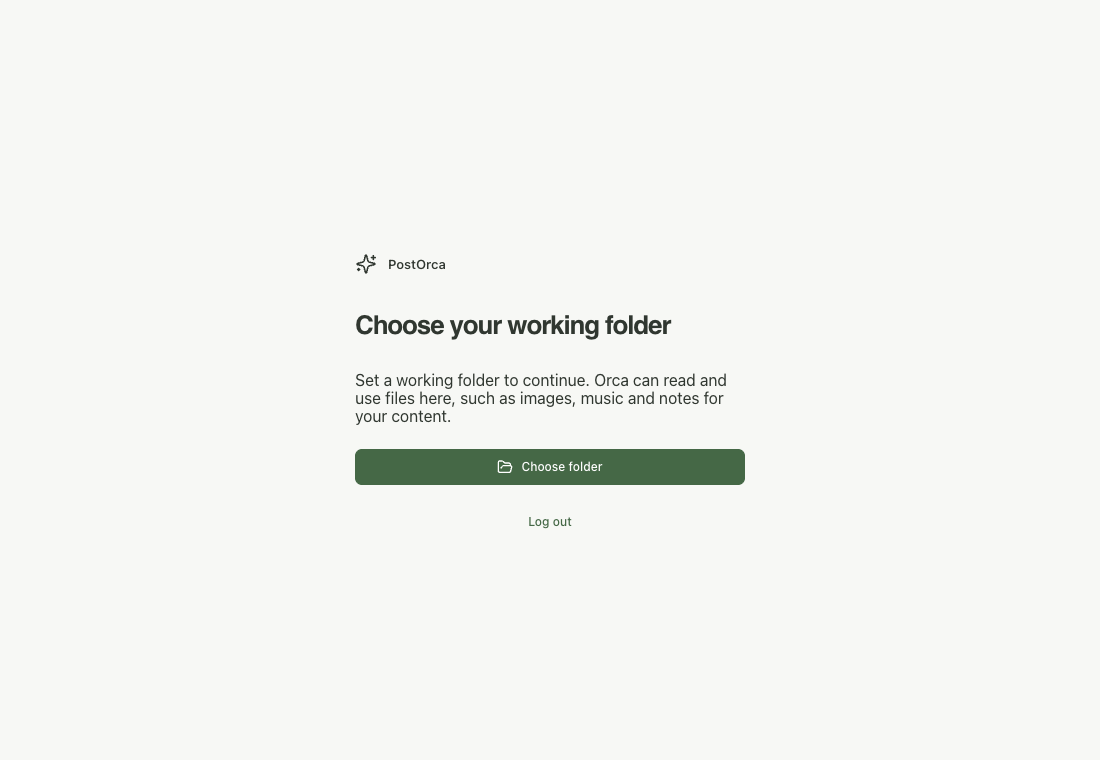
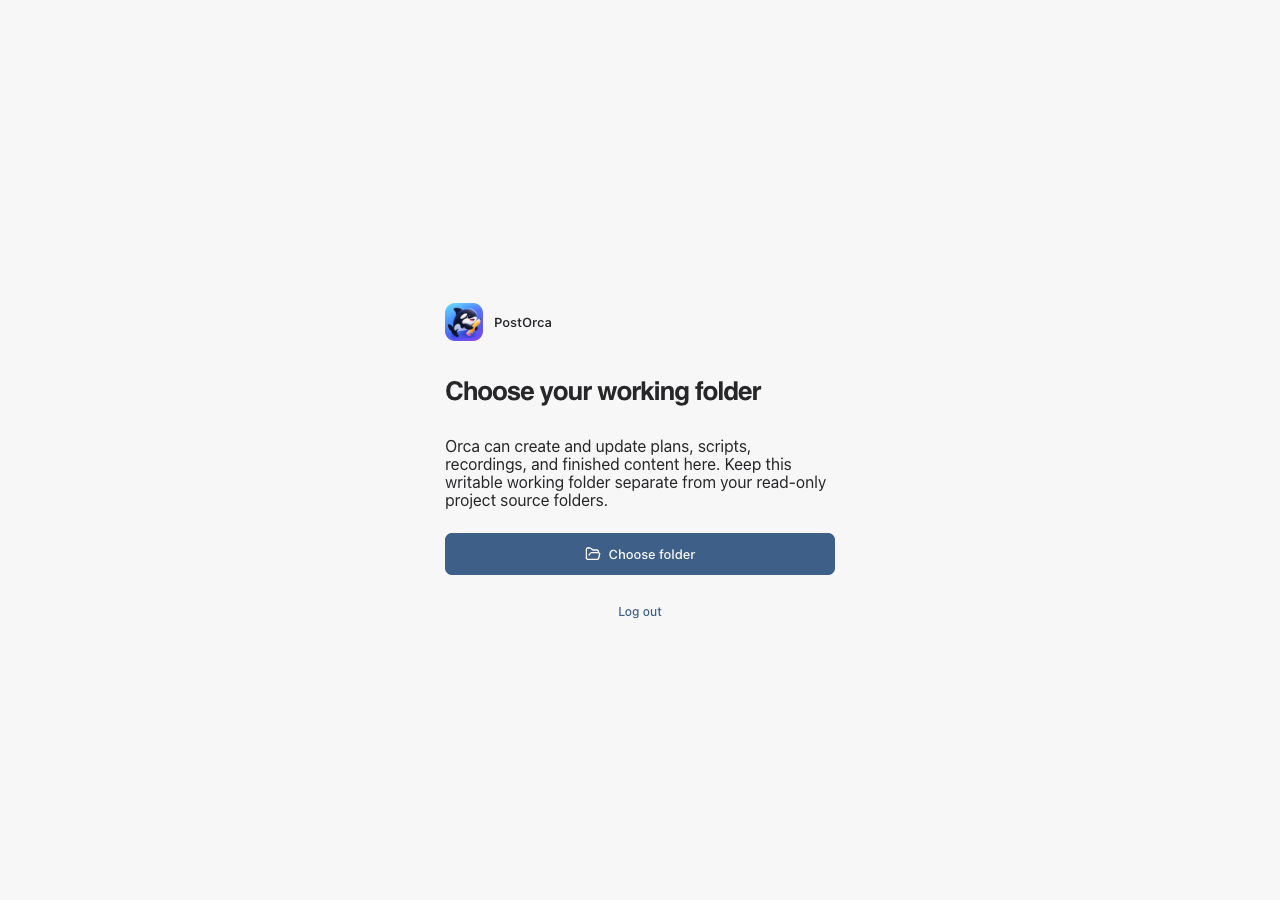
Clarify working folder and enforce read-only source boundaries

Changed region(s): [[0.3091, 0.4842, 0.68, 0.6961], [0.3091, 0.3934, 0.6182, 0.4539], [0.3091, 0.3329, 0.4327, 0.3934]]

diff --git a/apps/api/tests/projects.test.ts b/apps/api/tests/projects.test.ts
@@ -400,7 +400,7 @@ test("capture tools check their target and reach the desktop without project fol
   }
 });
 
-test("file transfer tools validate their arguments and never send project folders", async () => {
+test("file transfer tools validate arguments and protect registered sources during downloads", async () => {
   const founder = await onboarded([
     { name: "Founder on X", url: "https://x.com/transfer-founder", kind: "x" },
   ]);
@@ -454,6 +454,7 @@ test("file transfer tools validate their arguments and never send project folder
             url: "https://example.com/track.mp3",
             filename: "track.mp3",
             source_url: "https://example.com/music",
+            read_only_roots: ["/Users/founder/app"],
           },
           240_000,
         ],
@@ -912,4 +913,37 @@ test("account deletion still cascades with a legacy chat and multiple project ch
   await fixture.db.query("DELETE FROM users WHERE id=$1", [founder.id]);
   assert.equal((await fixture.db.query("SELECT count(*)::int AS n FROM tasks WHERE user_id=$1", [founder.id])).rows[0].n, 0);
   assert.equal((await fixture.db.query("SELECT count(*)::int AS n FROM brand_projects WHERE user_id=$1", [founder.id])).rows[0].n, 0);
+});
+
+test("content writers receive all owned read-only roots, not just the active project's folders", async () => {
+  const { callDesktop } = await import("../src/desktop/calls.js");
+  const founder = await account();
+  const other = await account();
+  const add = async (owner: typeof founder, name: string, folders: string[]) =>
+    (await request("/brand-profile/projects", "POST", { name, folders }, owner.token)).data.project;
+  const project = await add(founder, "Active", ["/source/active", "/source/docs"]);
+  await add(founder, "Other", ["/source/other"]);
+  await add(other, "Foreign", ["/source/foreign"]);
+  const task = await createTask(fixture.db, founder.id, "work", "Plan", "content", project.id);
+  const turn = await createTurn(fixture.db, founder.id, task.id, "Plan content");
+  const context = { db: fixture.db, userId: founder.id, taskId: task.id, turnId: turn.id };
+  const deviceToken = (await request("/desktop/device-token", "POST", { deviceId: randomUUID() }, founder.token)).data.token;
+  const ws = new WebSocket(`${base.replace(/^http/, "ws")}/desktop/socket?token=${encodeURIComponent(deviceToken)}`);
+  const calls: any[] = [];
+  ws.on("message", async (raw) => {
+    const { data: sent } = JSON.parse(raw.toString()); calls.push(sent);
+    await request("/desktop/tool-result", "POST", { executionId: sent.executionId, ok: true, result: { folder: "Content/Plan", path: "/output/Content/Plan/plan.md" } }, deviceToken);
+  });
+  await once(ws, "open");
+  try {
+    await executeTool(fixture.db, context, "save_content_file", { name: "plan.md", text: "# Plan" });
+    for (const name of ["screen_record_stop", "video_export"])
+      await callDesktop(context, name, { timeoutMs: 1000 }, { content_folder: "Content/Plan" });
+    for (const call of calls)
+      assert.deepEqual(call.arguments.read_only_roots, ["/source/active", "/source/docs", "/source/other"]);
+    await assert.rejects(executeTool(fixture.db, context, "save_content_file", { name: "plan.md", text: "x", read_only_roots: [] }), /Unrecognized key/);
+    const profile = await executeTool(fixture.db, context, "read_brand_profile", {}) as any;
+    assert.deepEqual(profile.folder_access, { source_folders: "read_only", working_folder: "read_write" });
+    assert.equal(calls.length, 3);
+  } finally { ws.close(); }
 });

diff --git a/apps/desktop/src/components/WorkingFolderSetup.tsx b/apps/desktop/src/components/WorkingFolderSetup.tsx
@@ -2,6 +2,7 @@ import { useEffect, useState, type ReactNode } from "react";
 import { FolderOpen, LoaderCircle } from "lucide-react";
 import { Button } from "./ui";
 import BrandMark from "./BrandMark";
+import { chooseWorkingFolder, folderError } from "../lib/folders";
 import "./AuthScreen.css";
 import "./forms.css";
 
@@ -32,7 +33,7 @@ export default function WorkingFolderSetup({
       () => {
         if (!cancelled) {
           setError(
-            "Unable to check your content output folder. Choose a folder to continue.",
+            "Unable to check your working folder. Choose a folder to continue.",
           );
           setChecking(false);
         }
@@ -51,7 +52,7 @@ export default function WorkingFolderSetup({
         <div
           className="auth-loading"
           role="status"
-          aria-label="Checking content output folder"
+          aria-label="Checking working folder"
         >
           <LoaderCircle className="loading-icon" size={24} />
         </div>
@@ -62,11 +63,10 @@ export default function WorkingFolderSetup({
               <BrandMark />
               <span>PostOrca</span>
             </div>
-            <h1>Choose your content output folder</h1>
+            <h1>Choose your working folder</h1>
             <div className="form-stack">
               <p>
-                Choose where Orca saves plans, scripts, recordings, and finished
-                content. You can add source folders for each project separately.
+                Orca can create and update plans, scripts, recordings, and finished content here. Keep this writable working folder separate from your read-only project source folders.
               </p>
               {error && (
                 <p className="auth-error" role="alert">
@@ -82,12 +82,10 @@ export default function WorkingFolderSetup({
                   setBusy(true);
                   setError("");
                   try {
-                    const folder = await folders.choose();
+                    const folder = await chooseWorkingFolder();
                     if (folder) setReady(true);
-                  } catch {
-                    setError(
-                      "Unable to save your content output folder. Please try again.",
-                    );
+                  } catch (error) {
+                    setError(folderError(error, "Unable to save your working folder. Please try again."));
                   } finally {
                     setBusy(false);
                   }

diff --git a/apps/desktop/src/components/SettingsModal.tsx b/apps/desktop/src/components/SettingsModal.tsx
@@ -1,3 +1,5 @@
+import { useEffect, useState } from "react";
+import { chooseWorkingFolder, folderError } from "../lib/folders";
 import BillingUsage from "./BillingUsage";
 import {
   CircleHelp,
@@ -73,6 +75,7 @@ export default function SettingsModal({
 
           {tab === "General" && (
             <>
+              <WorkingFolderSetting />
               <span className="field-section-label">Appearance</span>
               <div className="settings-group">
                 <div className="setting-row">
@@ -165,4 +168,40 @@ export default function SettingsModal({
       </div>
     </Modal>
   );
+}
+
+
+function WorkingFolderSetting() {
+  const folders = window.postorca?.workingFolder;
+  const [folder, setFolder] = useState<string | null>(null);
+  const [loading, setLoading] = useState(true);
+  const [busy, setBusy] = useState(false);
+  const [error, setError] = useState("");
+  useEffect(() => {
+    if (!folders) return;
+    let active = true;
+    void folders.get().then((value) => { if (active) setFolder(value); })
+      .catch((failure) => { if (active) setError(folderError(failure, "Unable to read the working folder.")); })
+      .finally(() => { if (active) setLoading(false); });
+    return () => { active = false; };
+  }, [folders]);
+  if (!folders) return null;
+  return <>
+    <span className="field-section-label">Files</span>
+    <div className="settings-group">
+      <div className="setting-row">
+        <div><strong>Working folder <span className="pill">Read &amp; write</span></strong>
+          <p style={{ overflowWrap: "anywhere" }}>{loading ? "Loading…" : folder || "Choose a working folder."}</p>
+          <p>Generated content is saved here. Keep it separate from read-only project source folders.</p>
+        </div>
+        <Button disabled={busy} onClick={async () => {
+          setBusy(true); setError("");
+          try { const selected = await chooseWorkingFolder(); if (selected) setFolder(selected); }
+          catch (failure) { setError(folderError(failure, "Unable to change the working folder.")); }
+          finally { setBusy(false); }
+        }}>{busy ? "Choosing…" : "Change folder"}</Button>
+      </div>
+      {error && <p className="auth-error" role="alert">{error}</p>}
+    </div>
+  </>;
 }

diff --git a/apps/desktop/src/components/ProjectDialog.tsx b/apps/desktop/src/components/ProjectDialog.tsx
@@ -1,6 +1,7 @@
 import { useState, type FormEvent } from "react";
 import { FolderOpen, Plus, Trash2 } from "lucide-react";
 import type { BrandProject } from "../lib/brand";
+import { folderError } from "../lib/folders";
 import { api } from "../lib/api";
 import { Button, Modal } from "./ui";
 import "./forms.css";
@@ -32,7 +33,7 @@ export default function ProjectDialog({
       await work();
     } catch (failure) {
       setError(
-        failure instanceof Error ? failure.message : "Unable to save project.",
+        folderError(failure, "Unable to save project."),
       );
     } finally {
       setBusy(false);
@@ -99,12 +100,11 @@ export default function ProjectDialog({
           />
         </label>
         <div className="project-folder-heading">
-          <strong>Source folders</strong>
+          <strong>Source folders <span className="pill">Read-only</span></strong>
           <span className="muted">{folders.length}/20</span>
         </div>
         <p className="muted">
-          Add repositories, designs, or notes for this project. Orca can read
-          files in these folders.
+          Orca’s file tools can read these repositories, designs, or notes, but cannot write to them. Generated content goes in your separate working folder.
         </p>
         <ul className="project-folder-list">
           {folders.map((folder) => (

diff --git a/apps/api/src/desktop/calls.ts b/apps/api/src/desktop/calls.ts
@@ -1,3 +1,5 @@
+import type { Database } from "../db.js";
+import { listProjects } from "../repositories/projects.js";
 import { randomUUID } from "node:crypto";
 import { HttpError } from "../handlers/errors.js";
 import { desktopConnections } from "./connections.js";
@@ -24,6 +26,7 @@ const pending = new Map<string, Pending>();
 export async function callDesktop(
   context: {
     userId: string;
+    db?: Database;
     taskId?: string;
     turnId?: string;
     signal?: AbortSignal;
@@ -41,6 +44,10 @@ export async function callDesktop(
   if (!deviceId) {
     if (tool.offline) return tool.offline();
     throw new HttpError(503, "The desktop app is not connected.");
+  }
+  if (context.db && args && typeof args === "object" &&
+      (["write_content_file", "download_file", "browser_fetch_file"].includes(name) || (["screen_record_stop", "video_export"].includes(name) && "content_folder" in args))) {
+    args = { ...args, read_only_roots: (await listProjects(context.db, context.userId)).flatMap((project) => project.folders) };
   }
   const executionId = randomUUID();
   const outcome = await new Promise<Outcome>((resolve) => {

diff --git a/apps/desktop/src/vite-env.d.ts b/apps/desktop/src/vite-env.d.ts
@@ -12,14 +12,14 @@ interface Window {
       refresh(): Promise<string | null>;
       clear(): Promise<void>;
     };
-    /** Picks a folder for a Brand Profile project; doesn't save it. */
+    /** Picks a read-only source folder for a project; doesn't save it. */
     projectFolder: {
       choose(): Promise<string | null>;
     };
     /** The folder Orca's file tools use; choose() opens the picker and saves it. */
     workingFolder: {
       get(): Promise<string | null>;
-      choose(): Promise<string | null>;
+      choose(readOnlySources?: string[]): Promise<string | null>;
     };
     /** Subscribes to notifications the OS wouldn't show; returns unsubscribe. */
     onNotification(

diff --git a/apps/desktop/src/lib/folders.ts b/apps/desktop/src/lib/folders.ts
@@ -1,0 +1,12 @@
+import { api } from "./api";
+import type { Brand } from "./brand";
+
+/** The server remains the source of truth for registered read-only folders. */
+export async function chooseWorkingFolder() {
+  const profile = await api<Brand>("/brand-profile");
+  const sources = profile.projects.flatMap((project) => project.folders ?? [project.path]);
+  return window.postorca?.workingFolder.choose(sources) ?? null;
+}
+export function folderError(error: unknown, fallback: string) {
+  return error instanceof Error ? error.message.replace(/^Error invoking remote method '[^']+': (?:Error: )?/, "") : fallback;
+}

diff --git a/apps/api/src/repositories/brand.ts b/apps/api/src/repositories/brand.ts
@@ -31,6 +31,7 @@ export async function getAgentProfile(
 ) {
   const profile = await getProfile(db, userId);
   delete profile.company;
+  profile.folder_access = { source_folders: "read_only", working_folder: "read_write" };
   if (projectId) {
     profile.projects = profile.projects.filter(
       (project: { id: string }) => project.id === projectId,

diff --git a/README.md b/README.md
@@ -23,7 +23,8 @@ PostOrca is a desktop app with an AI agent, Orca, that turns what you build into
 - **Routines**: work Orca does for you every day on its own, like checking what changed in your projects or how your posts did.
 - **Projects**: products you create content for, each with one or more local source folders and its own content tasks. Click a project in the sidebar to open its own Orca conversation. The project name appears in the chat header; its settings gear opens a dialog for folders, name, description, and removal. Work delegated from the conversation automatically stays with that project.
 - **Brand Profile**: your shared audience, voice, content interests and social links. Product context comes from Projects.
-- **Content output folder**: where Orca saves generated plans, scripts, recordings and exports; separate from project source folders.
+- **Working folder**: the writable folder Orca uses for generated plans, scripts, recordings and exports. Choose it during setup and change it in Settings → General.
+- **Source folders**: read-only inputs for Orca's file tools. They must be separate from the working folder, including parent/child overlaps and symlink aliases. Sources are registered in PostgreSQL (`brand_projects.folders`); the working folder remains local in the app profile's `settings.json` (`workingFolder`). Roles are derived from those stores, not per-folder database flags. The agent sees source paths and their role in its project context, and discovers the local working path and role through `desktop_status`. File-tool write checks enforce this separation; general computer automation is not an OS-level filesystem sandbox.
 - **Tools**: browser control through your own browser, computer use on macOS and Windows, media creation (images, voice, music, video), and Gmail/Google Drive connectors.
 
 ## Project structure

diff --git a/apps/api/src/agent/prompts/system.md b/apps/api/src/agent/prompts/system.md
@@ -7,3 +7,6 @@ When the work requires desktop tools, check desktop_status before relying on the
 Before finishing, check that the delivered work fulfills the founder's request and includes the information and materials needed to review and use it. Preserve essential context when turning your findings into the final deliverable. Verify completion against the available evidence, and clearly identify anything missing or unverified instead of claiming full completion. Make the finished work easy to find and keep the final summary concise. Keep this delivery check internal.
 
 Deliver selected image, audio and video files as task artifacts with create_artifact (kind image/audio/video; content is the saved file ref). A file attached to tool activity alone is not a final task artifact. Download and media tools already save files to the server; use their refs without re-uploading. For an existing original in the working folder, upload_file saves the complete file without conversion or trimming. Deliver only files actually saved, and keep source/license notes in the accompanying document.
+
+
+Project source folders are read-only inputs for file tools. The working_folder reported by desktop_status is writable and is where plans, scripts, recordings and finished content belong. Keep them separate. Never modify source files, use computer automation to edit them, or treat adding a source folder as permission to write to it. If the folders overlap, ask the founder to change the working folder in Settings rather than moving, deleting or changing their source files.
